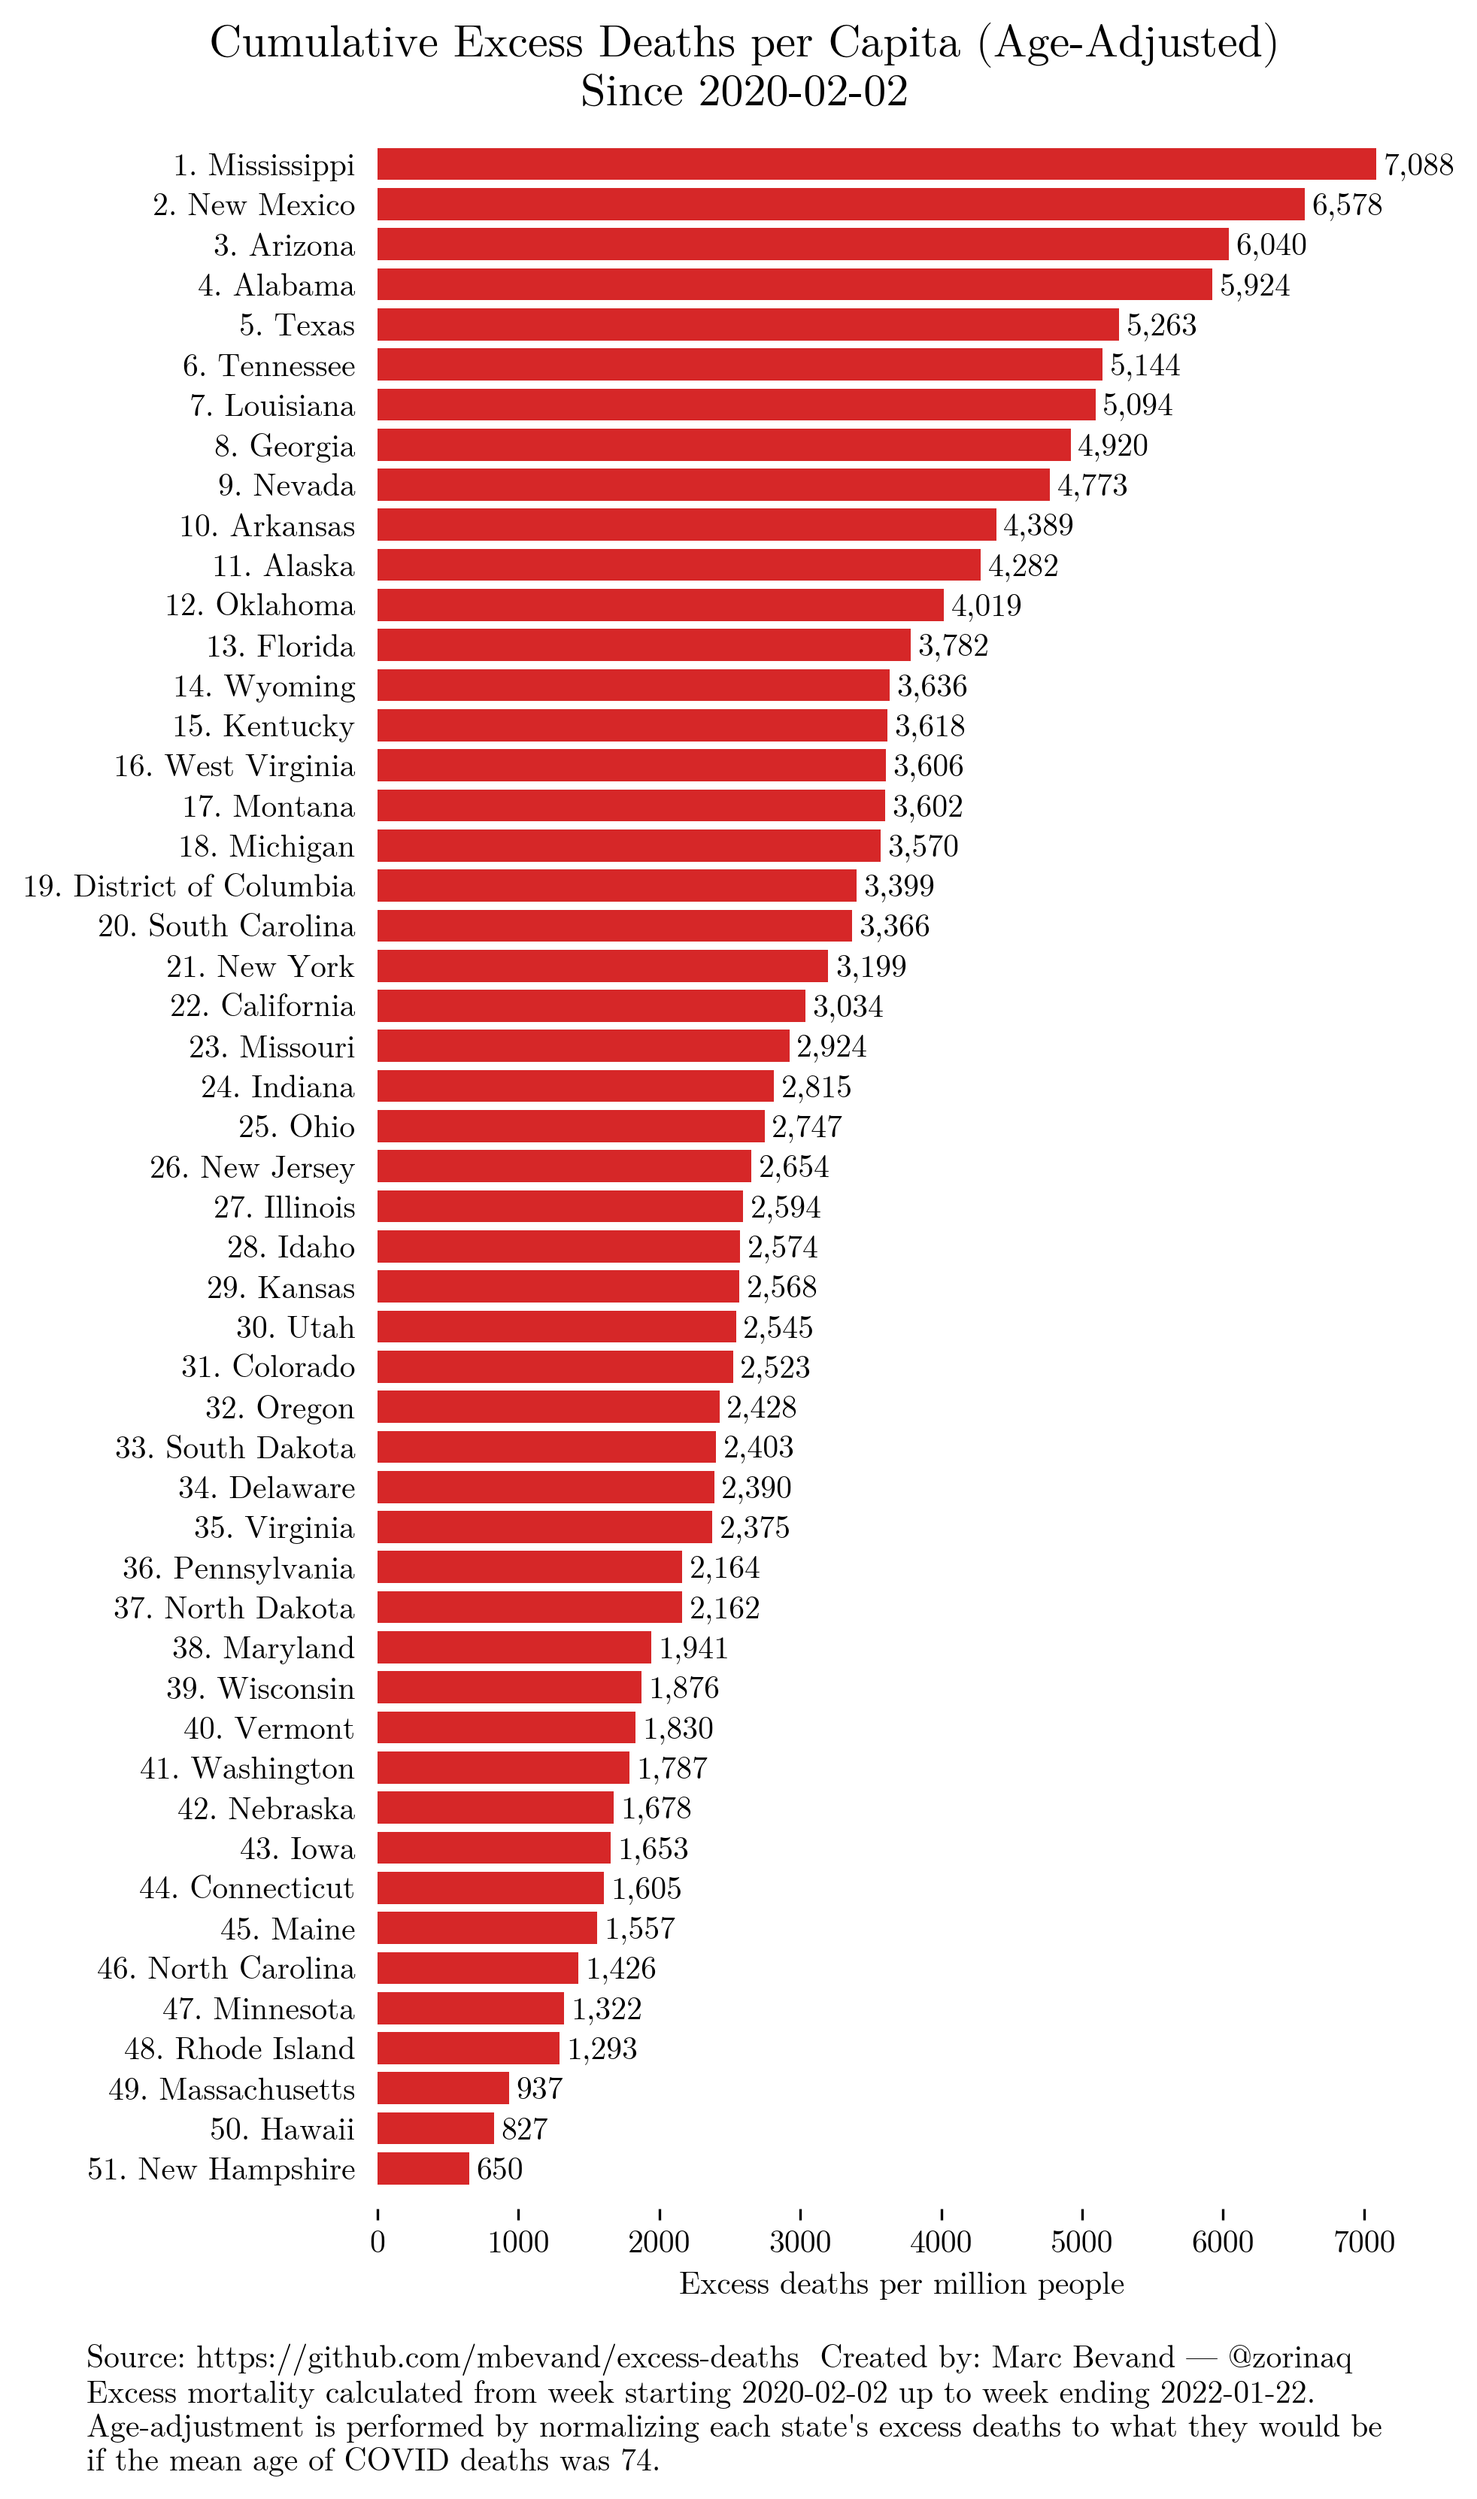
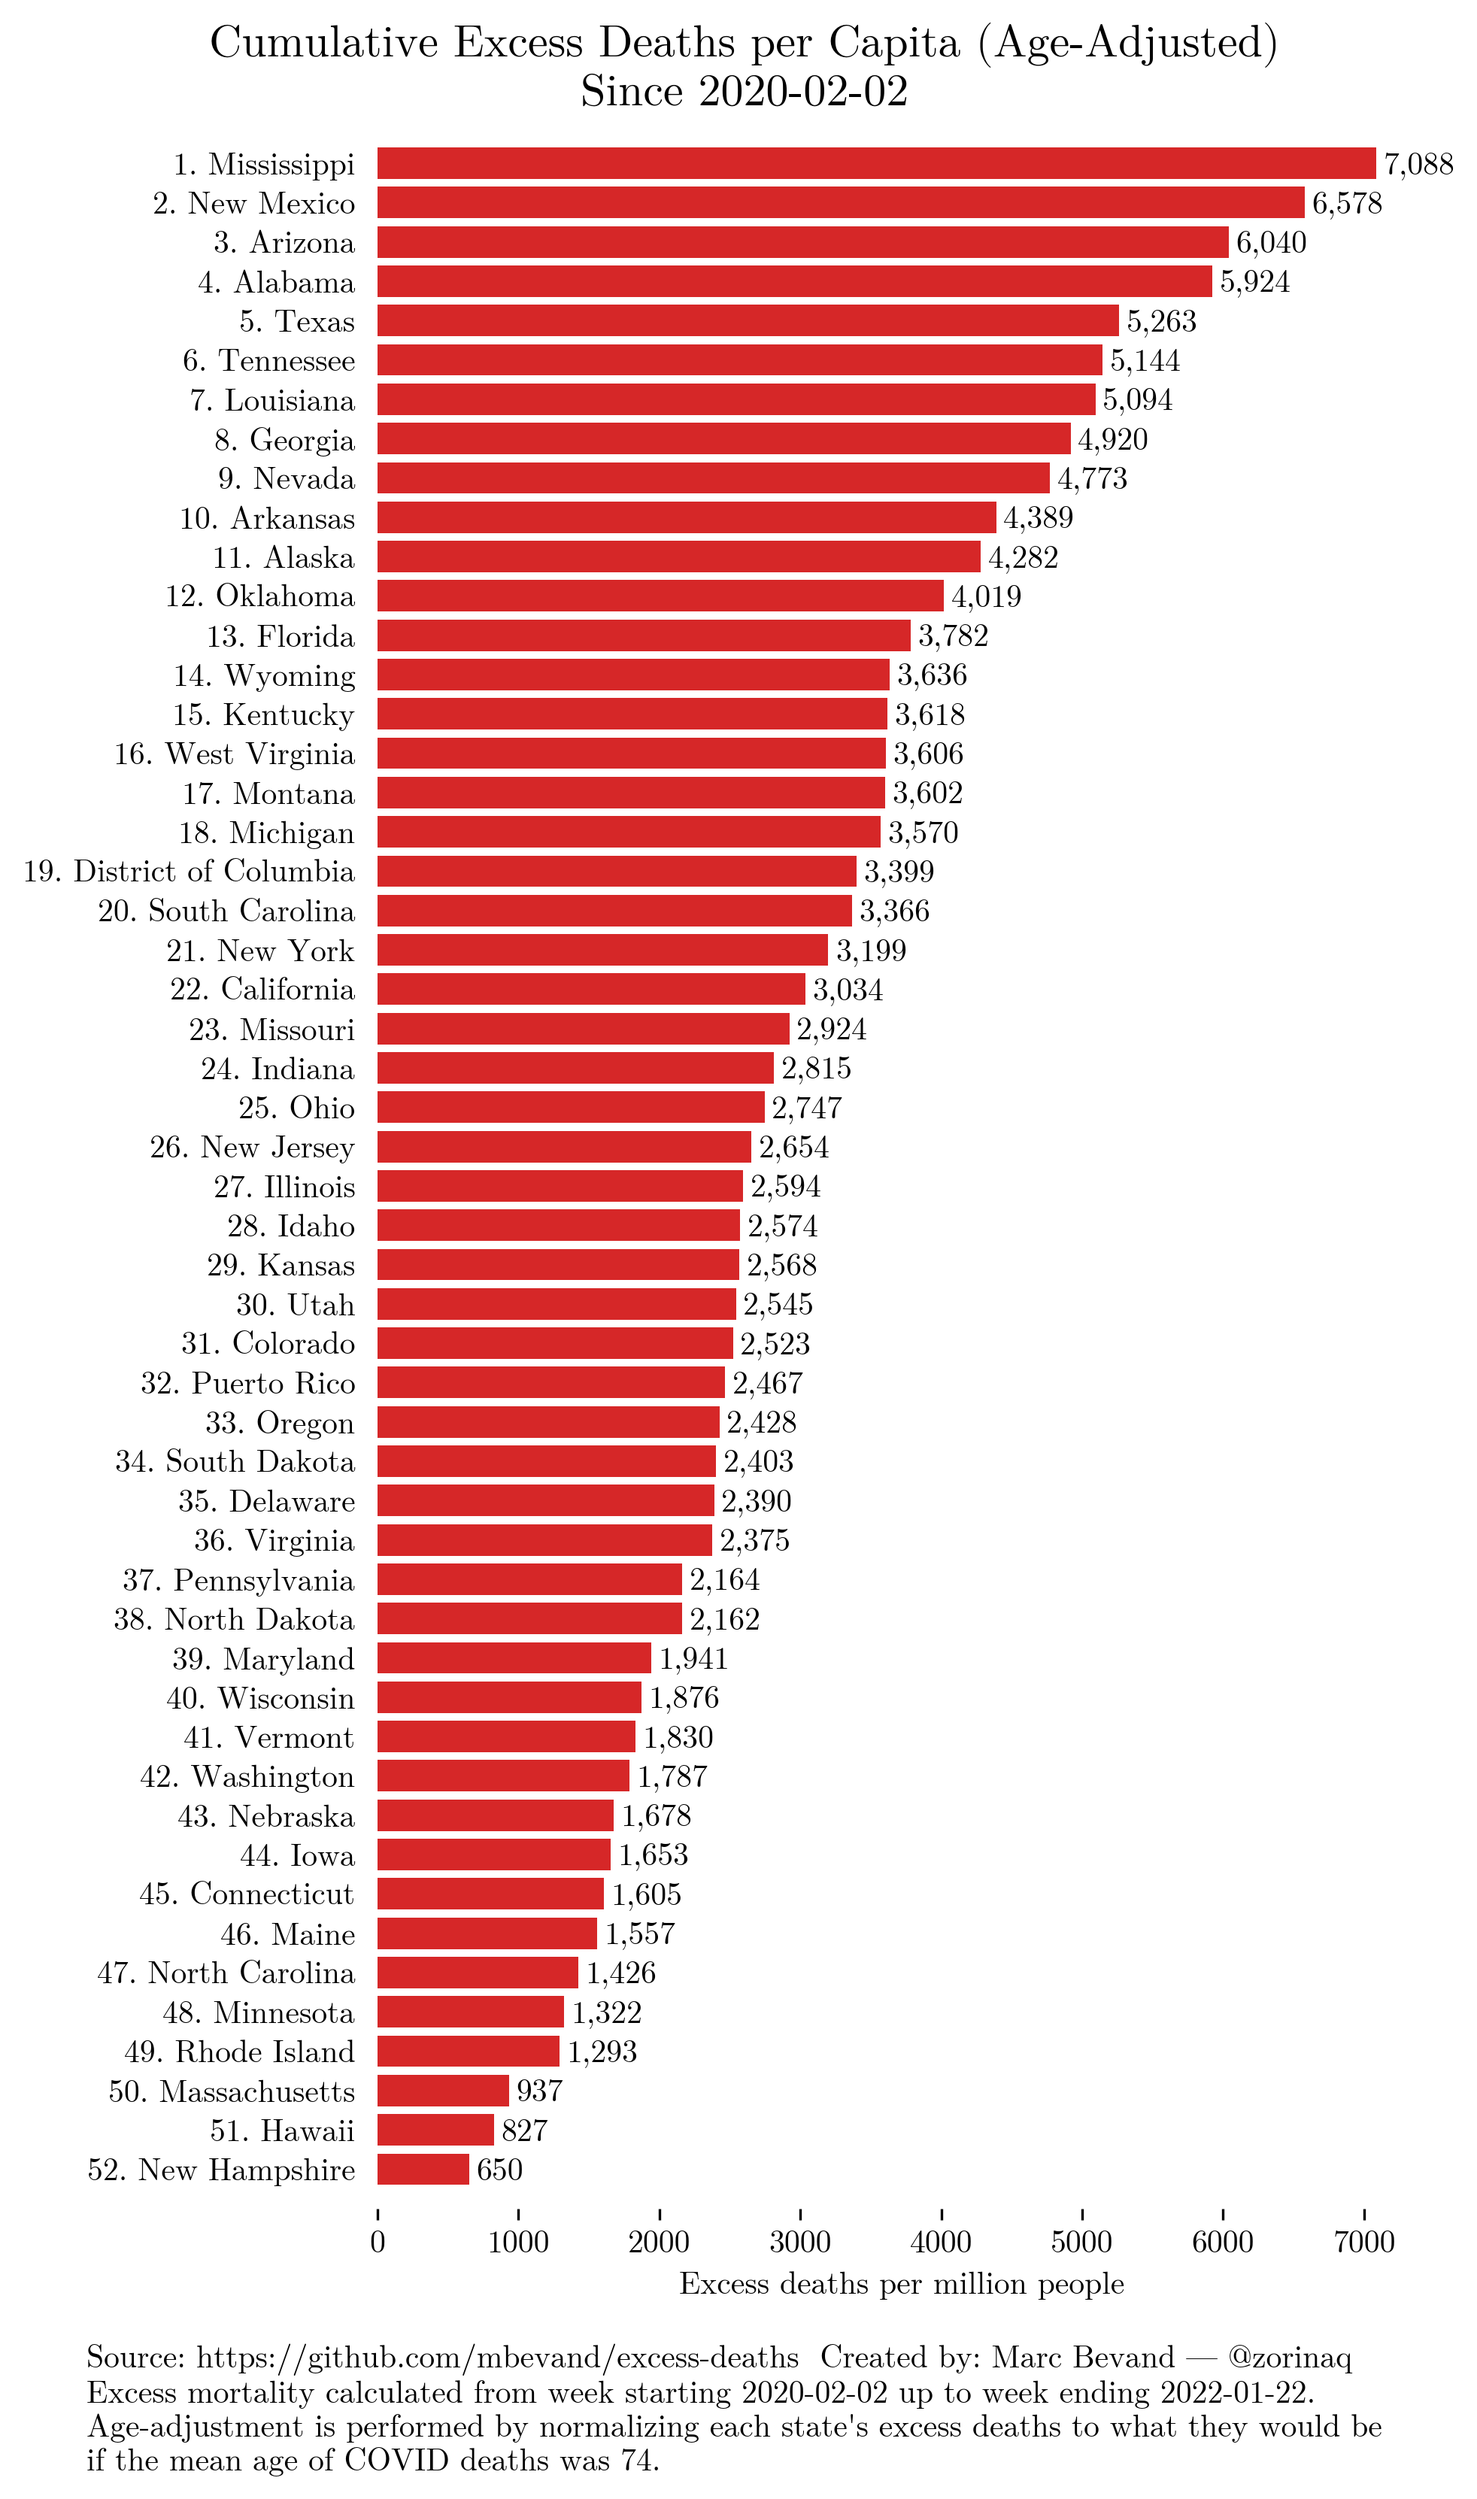
add Puerto Rico

Changed region(s): [[0.0621, 0.062, 0.8697, 0.8679]]

diff --git a/process.py b/process.py
@@ -63,6 +63,7 @@ pop = {
         'Oklahoma':3956971,
         'Oregon':4217737,
         'Pennsylvania':12801989,
+        'Puerto Rico':3193694,
         'Rhode Island':1059361,
         'South Carolina':5148714,
         'South Dakota':884659,
@@ -85,6 +86,7 @@ mean_age_of_covid_deaths = {
   'District of Columbia': 69.4120260663507,
   'Texas': 69.77048197876437,
   'New Mexico': 69.77611940298507,
+  'Puerto Rico': 70.01070663811564,
   'Nevada': 70.55204635623303,
   'Georgia': 70.819417646027,
   'Utah': 71.06218792555606,

diff --git a/calc_age_of_deaths.py b/calc_age_of_deaths.py
@@ -50,7 +50,6 @@ def main():
     df = df[df['Group'] == 'By Total']
     df = df[df['Sex'] == 'All Sexes']
     df = df[df['State'] != 'United States']
-    df = df[df['State'] != 'Puerto Rico']
     for state in set(df['State']):
         calc_state(state, df)
     as_of = list(set(df['Data As Of']))
